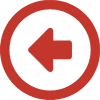
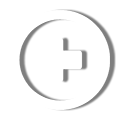
type: feat
updated arrow color, added a drop shadow to make it stick out more in lighter photos

diff --git a/src/containers/restaurant_detail.jsx b/src/containers/restaurant_detail.jsx
@@ -81,7 +81,7 @@ class RestaurantDetail extends Component {
 		const rating = parseInt(this.props.restaurant.rating);
 		return (
 		<div className="col-md-12 restaurantDetails animated fadeInDown">
-			<div className="returnButton" onClick={() => this.restaurantHide()}>
+			<div className="returnTop" onClick={() => this.restaurantHide()}>
 				<img src="src/img/left-arrow.png" alt="Return to restaurant list."/>	
 			</div>
 			<article className="card">

diff --git a/src/style/style.css b/src/style/style.css
@@ -179,6 +179,13 @@ button.btn:hover, button.btn:active {
 .detailBottom.first {
     padding: 1rem 0 0rem;
 }
+.returnTop {
+    position: absolute;
+    z-index: 3;
+    padding: 1rem;
+    cursor: pointer;
+}
+
 .restaurantHours {
     display: block;
     float: left;
